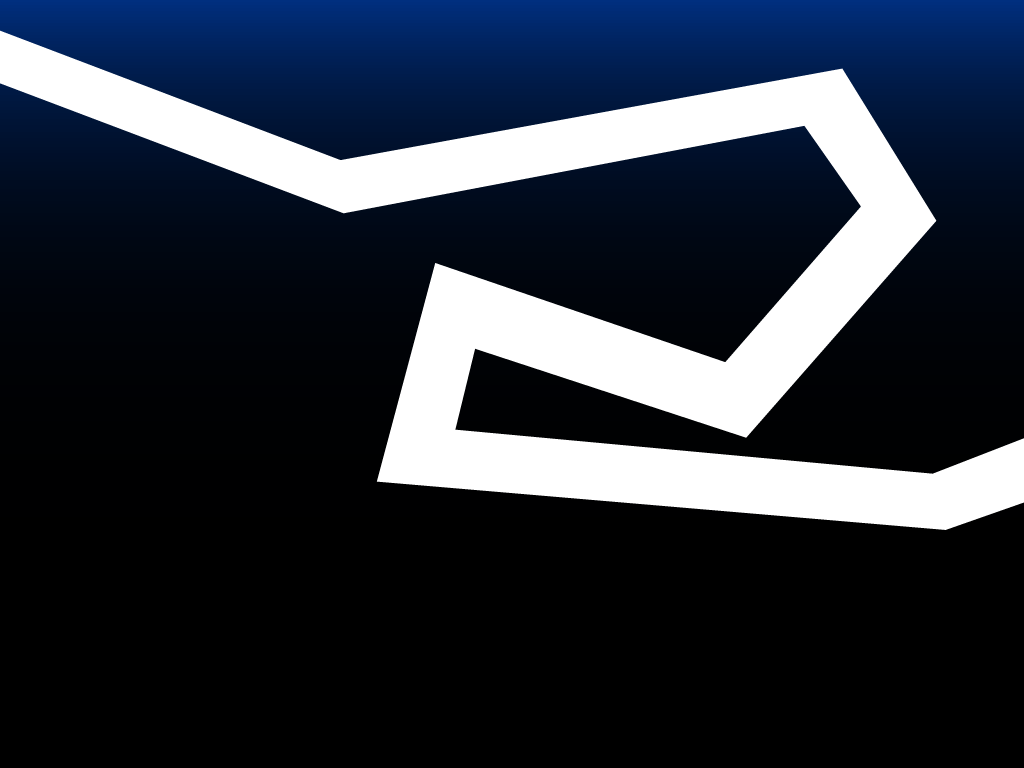
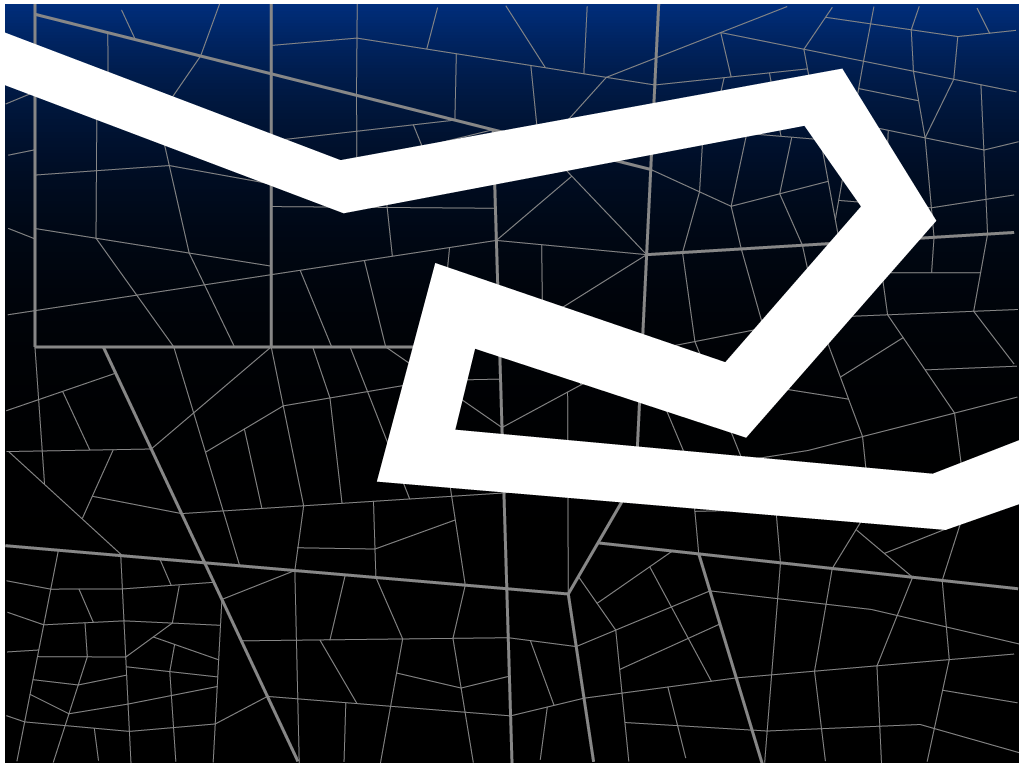
Added: Bomb Tower Graphics Added: Background Graphics Changed: Update Tower Graphics

diff --git a/entities/towers/tower.py b/entities/towers/tower.py
@@ -63,6 +63,7 @@ class Tower(Entity):
             self.range += 5
             self.range_level += 1
             self.range_upgrade_cost += 2
+            self.update_symbol()
             return True
         return False
 
@@ -74,7 +75,6 @@ class Tower(Entity):
             self.attack_power += 1
             self.attack_power_level += 1
             self.attack_power_upgrade_cost += 2
-            self.update_symbol()
             return True
         return False
 
@@ -93,7 +93,7 @@ class Tower(Entity):
 
         path = self.get_symbol_path()
 
-        new_symbol_path = re.sub("\d", str(self.attack_power_level), path)
+        new_symbol_path = re.sub("\d", str(self.range_level), path)
         self.set_symbol_path(new_symbol_path)
 
 

diff --git a/menus/main_menu.py b/menus/main_menu.py
@@ -75,7 +75,7 @@ class MainMenu(Menu):
             self.resume_game_button_clicked()
         elif name == 'mbtn_tutorial':
             self.tutorial_button_clicked()
-        elif name == 'mbtn_scoreboard':
+        elif name == 'mbtn_ranking':
             self.scoreboard_button_clicked()
         elif name == 'mbtn_quit':
             self.end_game()
